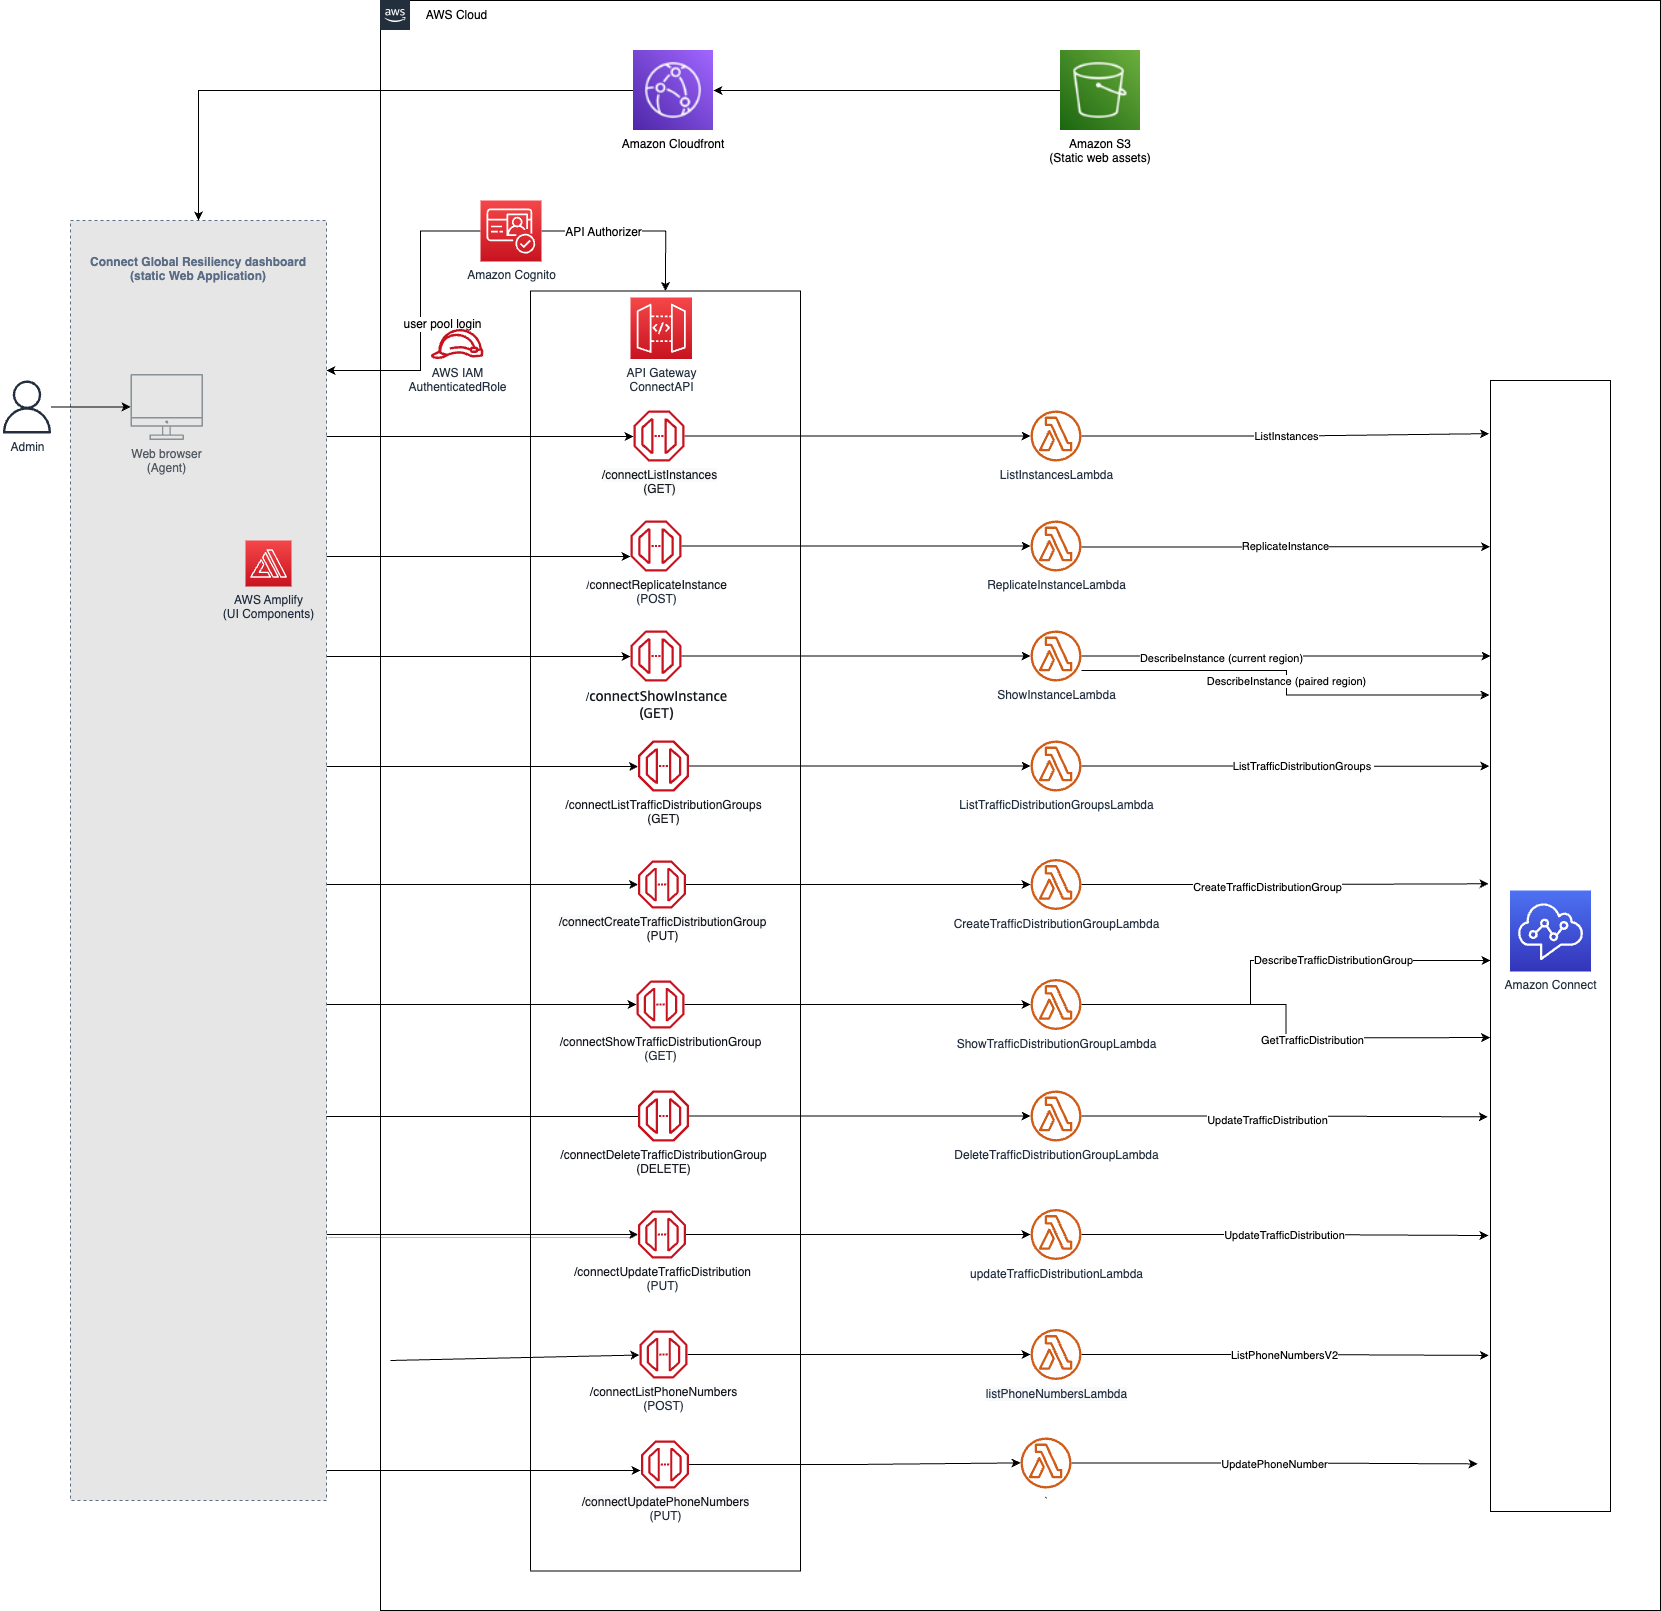
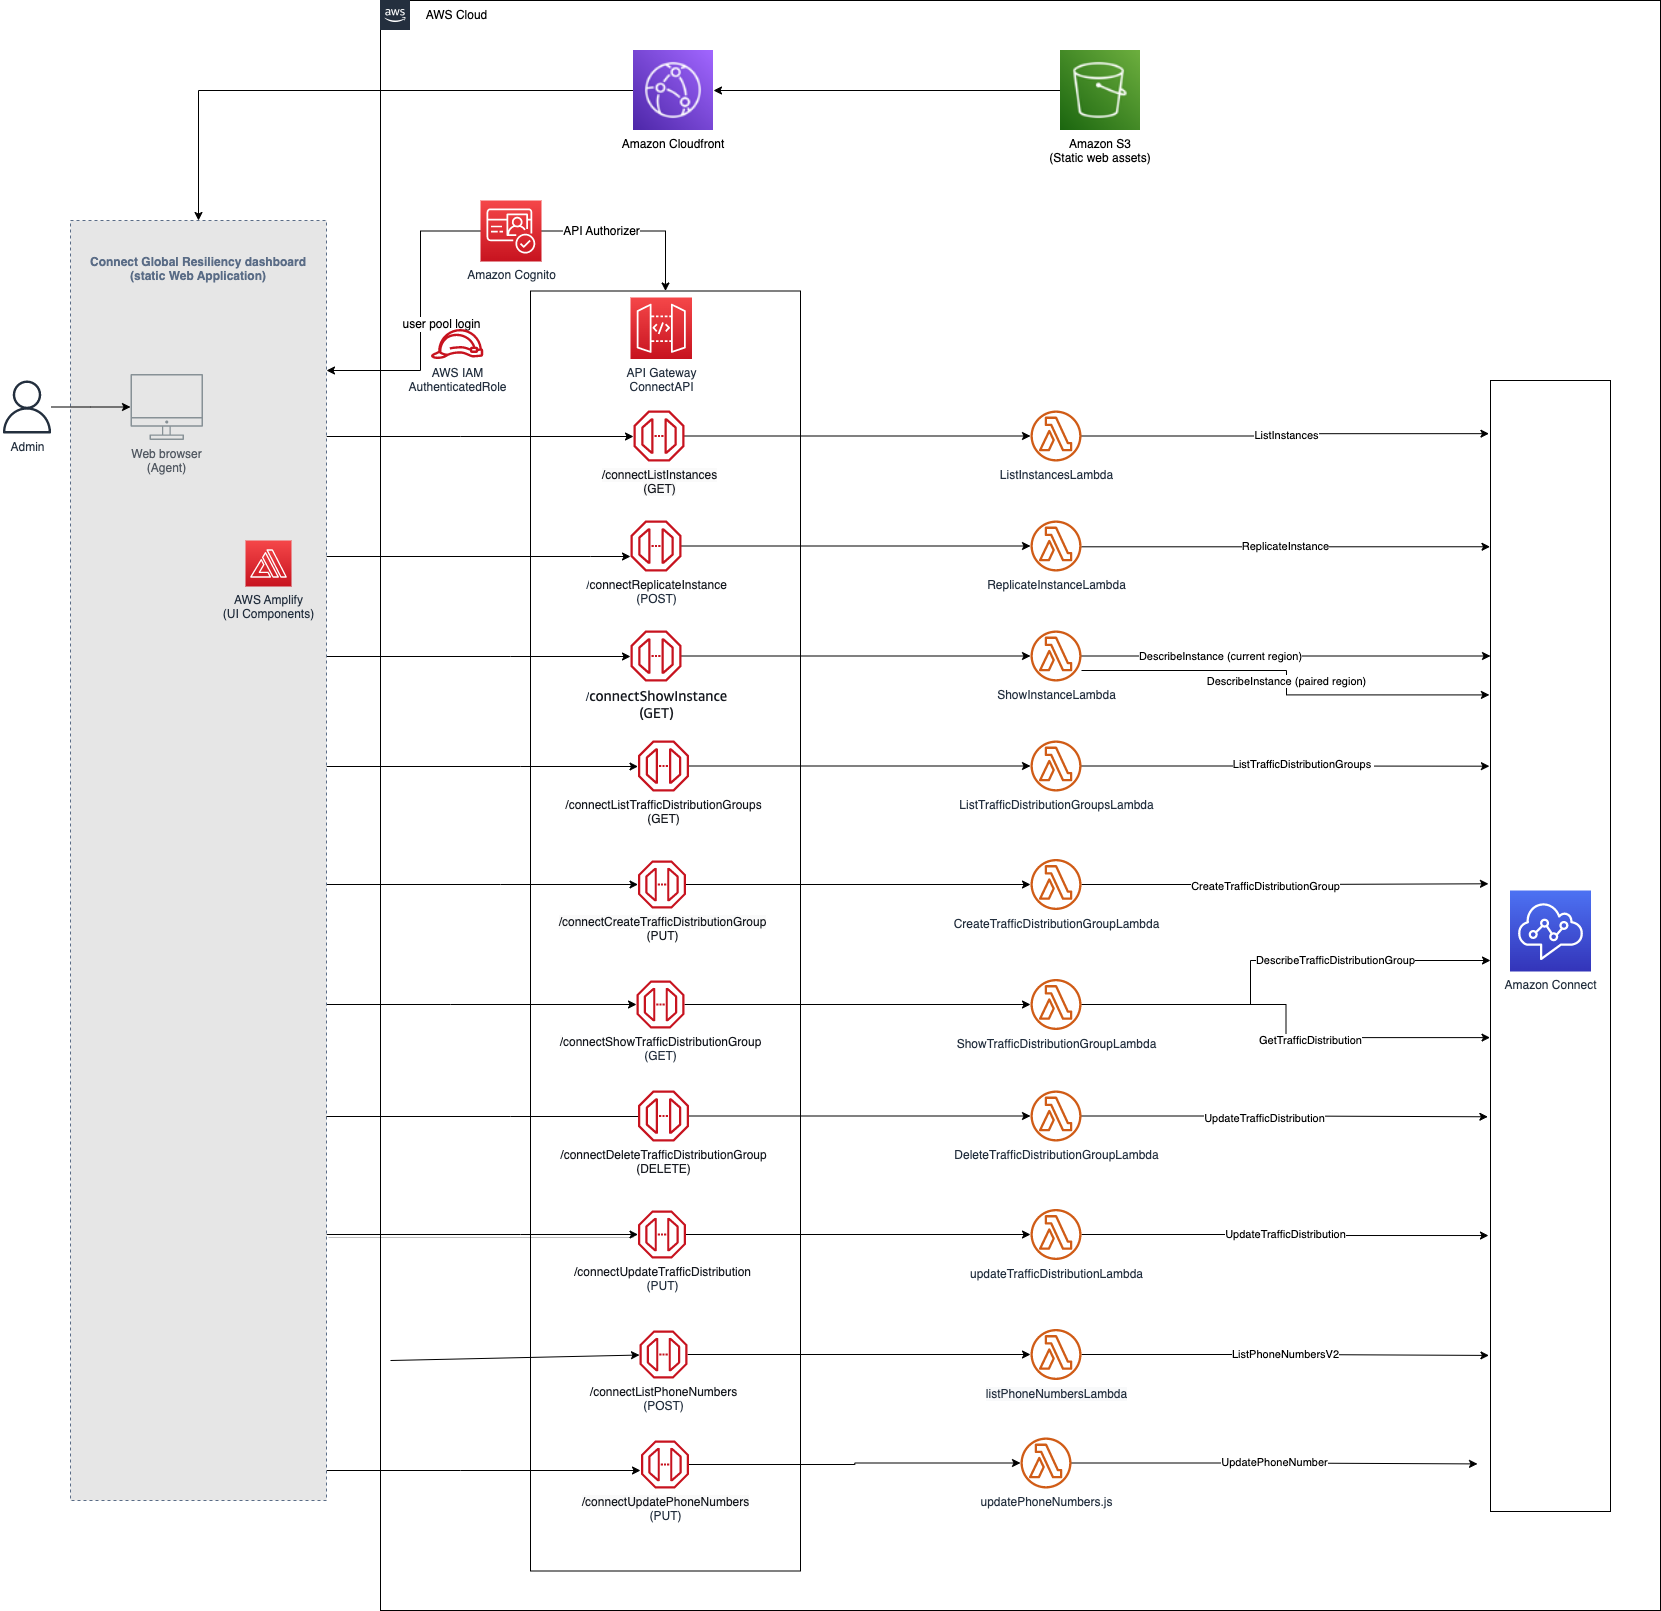
Release 1.0.1

diff --git a/cdk-stacks/README.md b/cdk-stacks/README.md
@@ -8,5 +8,11 @@
  * `npm run sync-config`                 download frontend-config.js for local frontend testing (agent-app, demo-website)
  * `npm run build:frontend`              build frontend applications (agent-app, demo-website)
  * `npm run cdk:deploy`                  deploy backend and frontend stacks to your default AWS account/region
+ * `npm run cdk:deploy:gitbash`          deploy backend and frontend stacks to your default AWS account/region (WINDOWS)
  * `npm run build:deploy:all`            build frontend applications and deploy stacks to your default AWS account/region
- * `npm run build:deploy:all:gitbash`     build frontend applications and deploy stacks to your default AWS account/region (WINDOWS) 
+ * `npm run build:deploy:all:gitbash`    build frontend applications and deploy stacks to your default AWS account/region (WINDOWS) 
+
+ ## What's different about the gitbash (windows) specific commands
+ Building on Windows requires a few small changes that have been bundled into different gitbash specific scripts:
+ * Use of `set` to configure the `NODE_ENV` environment variable - [More Information](https://stackoverflow.com/a/9250168)
+ * All `cdk` commands are prefixed with `winpty` - [More Information](https://github.com/git-for-windows/git/wiki/FAQ#some-native-console-programs-dont-work-when-run-from-git-bash-how-to-fix-it)

diff --git a/README.md b/README.md
@@ -107,6 +107,7 @@ These instructions assume you have completed all the prerequisites, and you have
     - This script builds frontend applications (webapp)
     - If you have started with a new environment, please bootstrap CDK: `cdk bootstrap`
     - Run the script: `npm run cdk:deploy`
+      - **On Windows devices use `npm run cdk:deploy:gitbash`**.
     - This script deploys CDK stacks
     - Wait for all resources to be provisioned before continuing to the next step
     - AWS CDK output will be provided in your Terminal. You should see the Amazon Cognito User Pool Id as `userPoolId` from your Backend stack, 
@@ -132,6 +133,7 @@ These instructions assume you have completed all the prerequisites, and you have
         - webapp-api-allowed-origins: Domain of your agent application, in this case Amazon CloudFront Distribution URL. For instance: `https://aaaabbbbcccc.cloudfront.net`
     - The script stores the deployment parameters to AWS System Manager Parameter Store
     - While in `amazon-connect-global-resiliency/cdk-stacks`, run the deploy script: `npm run cdk:deploy`
+      - **On Windows devices use `npm run cdk:deploy:gitbash`**.
     - Wait for the CDK stacks to be updated
 
 

diff --git a/CHANGELOG.md b/CHANGELOG.md
@@ -4,5 +4,9 @@ All notable changes to this project will be documented in this file.
 The format is based on [Keep a Changelog](https://keepachangelog.com/en/1.0.0/),
 and this project adheres to [Semantic Versioning](https://semver.org/spec/v2.0.0.html).
 
+## [1.0.1] - 2022-11-15
+- README updates with more Windows specific changes
+- Architecture Diagram Updates
+
 ## [1.0.0] - 2022-11-11
 Initial Release
